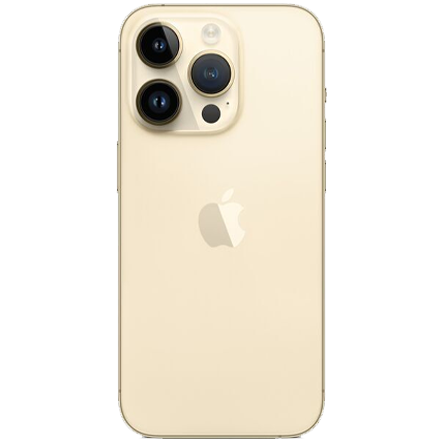
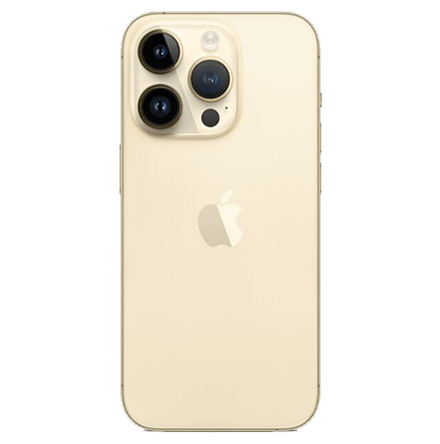
Poprawki wygladu strony i zdjec

Changed region(s): [[0.2659, 0.0, 0.7682, 0.9955], [0.5023, 0.4977, 0.5318, 0.5563]]

diff --git a/telefix-gliwice/index.html b/telefix-gliwice/index.html
@@ -156,7 +156,7 @@
 
 <!-- PRODUKT03 -->
     <div class="product-card">
-        <img src="produkty/iPhone13Pro.png" alt="iPhone 15 Pro Max">
+        <img src="produkty/iPhone15ProMax.png" alt="iPhone 15 Pro Max">
 
         <h3>iPhone 15 Pro Max</h3>
 
